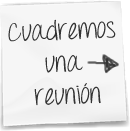
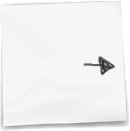
Modificación de algunos bloques con texto en imágenes pasado a texto real

diff --git a/app/assets/stylesheets/custom.css.scss b/app/assets/stylesheets/custom.css.scss
@@ -459,7 +459,21 @@ ul.nav-footer {
 			}
 		}
 		.weareagile {
-			background: asset-url("cleteci-weareagile.png",image) no-repeat 55px 20px;
+			position: relative;
+			background: asset-url("cleteci-circle.png",image) no-repeat 55px 20px;
+			p {
+				font-size: 53px;
+				color: white;
+				line-height: 60px;
+				left: 83px;
+				position: absolute;
+				top: 47px;
+				transform:rotate(-10deg);
+				-ms-transform:rotate(-10deg);
+				-moz-transform:rotate(-10deg);
+				-webkit-transform:rotate(-10deg);
+				-o-transform:rotate(-10deg);
+			}
 		}
 		.postit1 {
 			background: asset-url("cleteci-postit-orange-1.png",image) no-repeat;
@@ -665,6 +679,18 @@ ul.nav-footer {
 	#arrange {
 		background: asset-url("cleteci-postit-arrange.png",image) no-repeat;
 		margin-left: 25px;
+		p {
+			width: 104px;
+			color: $myDarkGray;
+			font-size: 26px;
+			font-weight: normal;
+			line-height: 32px;			
+			transform:rotate(-2deg);
+			-ms-transform:rotate(-2deg);
+			-moz-transform:rotate(-2deg);
+			-webkit-transform:rotate(-2deg);
+			-o-transform:rotate(-2deg);			
+		}
 	}
 	.mail img {
 		padding-left: 10px;
